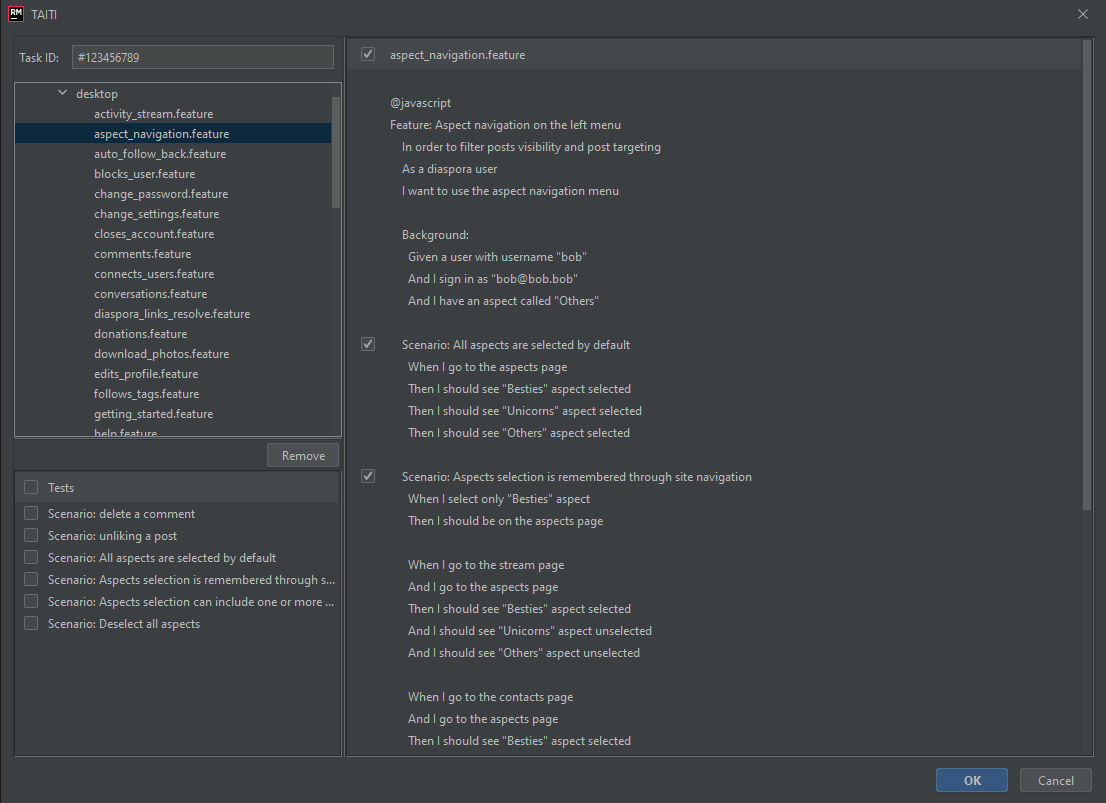
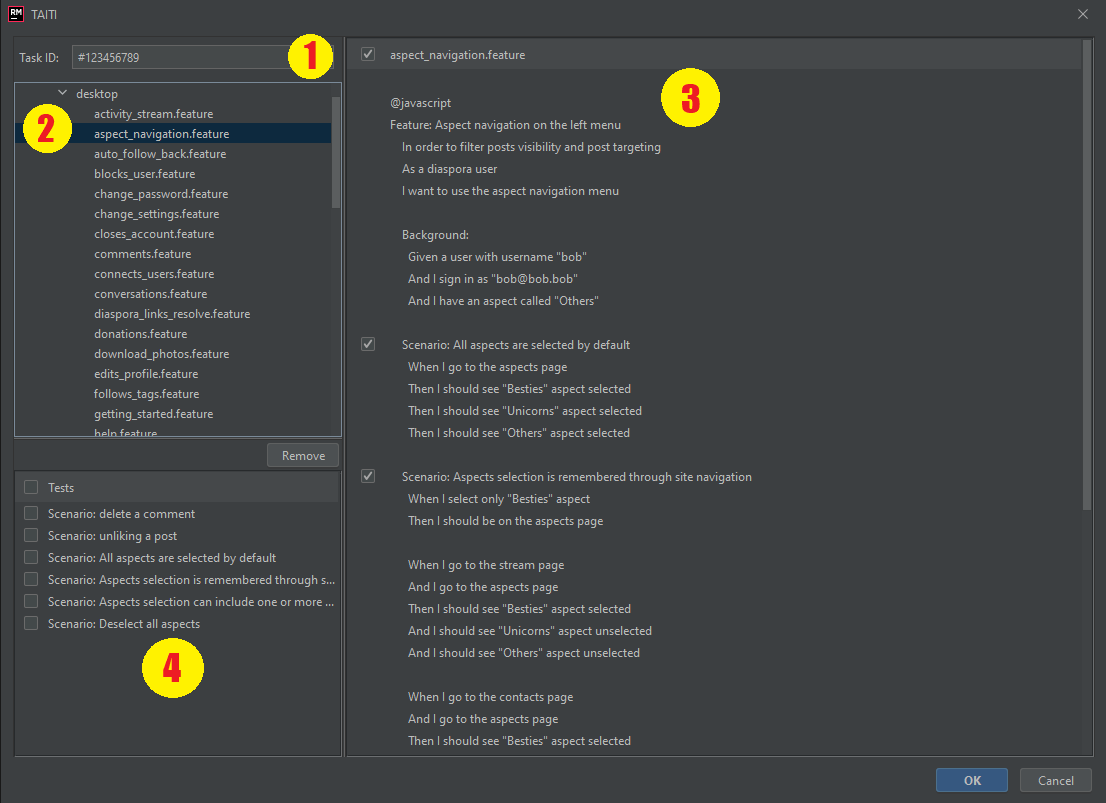
Atualizando README

diff --git a/src/main/java/br/edu/ufape/taiti/gui/taskbar/TaskBarGUI.java b/src/main/java/br/edu/ufape/taiti/gui/taskbar/TaskBarGUI.java
@@ -113,7 +113,7 @@ public class TaskBarGUI {
 
                 TableRowSorter<DefaultTableModel> sorter2 = new TableRowSorter<>(modelo2);
                 startedTable.setRowSorter(sorter2);
-                sorter.setRowFilter(RowFilter.regexFilter(txtSearch.getText()));
+                sorter2.setRowFilter(RowFilter.regexFilter(txtSearch.getText()));
 
             }
         });

diff --git a/README.md b/README.md
@@ -36,7 +36,7 @@ Após configurar o plugin, você está apto a usá-lo. O plugin tem duas telas p
 
 <figure>
   <figcaption><em>Figura 3 - Visão principal do plugin TAITIr.</em></figcaption>
-  <img width="600px" alt="Abas do Plugin" src="/doc/plugin1.png"/> 
+  <img width="800px" alt="Abas do Plugin" src="/doc/plugin1.png"/> 
 </figure>
 
 Conforme ilustrado na Figura 3 (item 3, listagem <em>My unstarted tasks</em>), quando o desenvolvedor identifica as tarefas que planeja executar, o plugin informa para cada uma delas o grau de risco de conflito total com outras tarefas em execução no momento. 
@@ -65,23 +65,18 @@ O item 3 exibe o arquivo <em>.feature</em> selecionado e o item 4 é uma tabela 
 
 <figure>
   <figcaption><em>Figura 6 - Tela de configuração de tarefa de programação do plugin TAITIr.</em></figcaption>
-  <img width="600px" alt="Tela Add do plugin" src="/doc/plugin_add2.png"/> 
+  <img width="600px" alt="Tela Add do plugin" src="/doc/plugin_add3.png"/> 
 </figure>
 
 Após informar o ID no item 1 e selecionar um arquivo <em>.feature</em> no item 2, sua tela fica parecida com a tela da Figura 6, na qual o arquivo selecionado é exibido ao centro e cada teste nele existente é identificado por um checkbox. Ao marcar o checkbox, você informa que o referido teste está relacionado à tarefa. 
 Alternativamente, é possível selecionar todos os testes em um arquivo, apenas marcando o checkbox que identifica o nome do arquivo na parte central da tela.
 
-Selecionado os cenários de teste para a tarefa, sua tela fica parecida com a tela da Figura 7, na qual há uma listagem de todos os testes selecionados (item 4) em um ou mais arquivos, e você pode atualizá-la, removendo algum teste caso necessário.
+Selecionado os cenários de teste para a tarefa, sua tela fica parecida com a tela da Figura 6, na qual há uma listagem de todos os testes selecionados (item 4) em um ou mais arquivos, e você pode atualizá-la, removendo algum teste caso necessário.
+
+Uma vez finalizada a seleção dos testes relacionados à tarefa, basta clicar em OK e um arquivo <em>.csv</em> com os cenários selecionados é criado e exportado para o PivotalTracker, sendo anexado como comentário na seção <em>Activity</em> da tarefa, conforme ilustrado na Figura 7.
 
 <figure>
-  <figcaption><em>Figura 7 - Resumo dos testes relacionados à uma tarefa de programação.</em></figcaption>
-  <img width="600px" alt="Tela do plugin" src="/doc/plugin_add3.png"/> 
-</figure>
-
-Uma vez finalizada a seleção dos testes relacionados à tarefa, basta clicar em OK e um arquivo <em>.csv</em> com os cenários selecionados é criado e exportado para o PivotalTracker, sendo anexado como comentário na seção <em>Activity</em> da tarefa, conforme ilustrado na Figura 8.
-
-<figure>
-  <figcaption><em>Figura 8 - Tarefa do PivotalTracker com anexo na aba Activity.</em></figcaption>
+  <figcaption><em>Figura 7 - Tarefa do PivotalTracker com anexo na aba Activity.</em></figcaption>
   <img alt="Tela do plugin" src="/doc/pivotal.png"/> 
 </figure>
 
